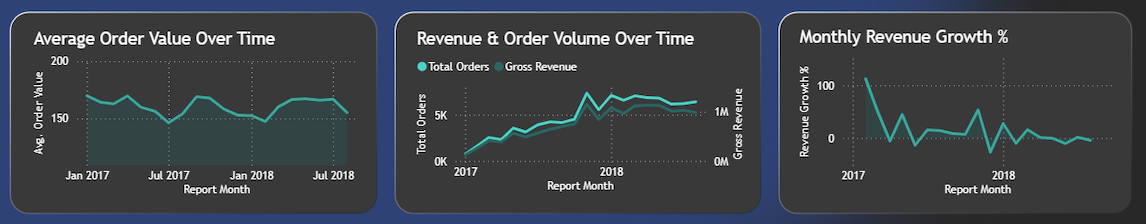
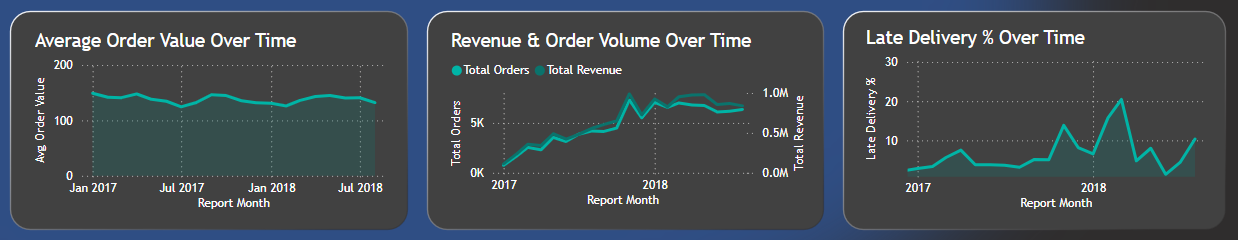
update screenshots and readme

diff --git a/README.md b/README.md
@@ -2,7 +2,7 @@
 
 ## 🎭 Business Scenario
 
-It's late 2018, and I'm working as a Data Analyst for Olist, a Brazilian e-commerce marketplace. The executive leadership team has requested a clear picture of how the business has performed over the previous two years, with a particular focus on revenue growth, regional performance and customer satisfaction.
+It's mid 2018, and I'm working as a Data Analyst for Olist, a Brazilian e-commerce marketplace. The executive leadership team has requested a clear picture of how the business has performed over the previous two years, with a particular focus on revenue growth, regional performance and customer satisfaction.
 
 To support this, I needed to answer several key business questions.
 
@@ -25,7 +25,7 @@ My goal was to design and build an end-to-end analytics pipeline that transforme
 
 ## 📸 Dashboard
 
-![Sales & Delivery Intelligence Dashboard](assets/dashboard-screenshot.png)
+![Sales & Delivery Intelligence Dashboard](assets/sales-delivery-intel-dashboard.png)
 
 ---
 
@@ -56,30 +56,33 @@ The goal was to keep the raw data untouched, clean and standardise it in staging
 
 ### Raw Layer (`raw/`)
 
-The raw layer contains the original CSV data loaded directly into the database with no transformations applied.
+The raw layer contains the original CSV data loaded directly into PostgreSQL with no transformations applied. All date columns are stored as VARCHAR, coordinates are stored as VARCHAR, and city name misspellings are preserved exactly as they appear in the source files.
 
-I mainly used this layer for profiling and data quality checks before building any transformations. I wanted to understand how reliable the data was, spot inconsistencies early, and avoid issues later when calculating KPIs.
+The nine raw tables are:
 
-During a full exploratory data quality assessment, I checked for:
+- `raw.customers` — customer ID, unique customer ID, zip code prefix, city, state
+- `raw.orders` — order ID, customer ID, status, and five date columns (all stored as VARCHAR)
+- `raw.order_items` — order ID, product ID, seller ID, price, freight value
+- `raw.order_payments` — order ID, payment sequential, payment type, instalments, payment value
+- `raw.order_reviews` — review ID, order ID, review score, comment title, comment message, two timestamps
+- `raw.products` — product ID, category name in Portuguese, physical dimensions and weight
+- `raw.product_category_name_translation` — Portuguese to English category name mapping
+- `raw.sellers` — seller ID, zip code prefix, city, state
+- `raw.geolocation` — zip code prefix, latitude, longitude, city, state (over 1M rows)
 
-- Duplicate primary keys
-- Missing values in important columns
-- Invalid dates and delivery records
-- Geography spelling inconsistencies
-- Pricing and payment outliers
-- One-to-many joins that could inflate metrics
+Before building any transformations, I profiled each table to assess data quality. The goal was to understand what problems existed in the raw data before writing any cleaning logic.
 
-Key profiling issues I found included:
+Key issues found during profiling:
 
-- Over 1M geolocation rows with lots of duplicate ZIP mappings
-- Seller city names entered in many different formats
-- Coordinates outside Brazil that needed filtering
-- Products missing category and metadata information
-- Orders marked as delivered but missing delivery dates
-- Orders using multiple payment records
-- Around 8% of deliveries arriving late
+- Over 1M geolocation rows with heavily duplicated zip code mappings (up to 50 rows per zip code)
+- Seller city names with widespread formatting inconsistencies, typos, double spaces and invalid entries including email addresses
+- Geolocation coordinates outside Brazil's geographic boundaries
+- Products missing category names and associated metadata
+- Orders marked as delivered but with no actual delivery date recorded
+- Orders with multiple payment records, creating a one-to-many join risk
+- Around 8% of orders arriving after the estimated delivery date
 
-These findings helped shape the cleaning logic I later built in the staging layer.
+These findings shaped the cleaning logic built in the staging layer.
 
 _**Example logic: Profiling checks**_
 
@@ -105,24 +108,20 @@ ORDER BY 1 ASC;
 
 ### Cleaning Layer (`staging/`)
 
-The staging layer contains cleaned and standardised views built to prepare the source data for reliable analysis.
+The staging layer contains eight cleaned and standardised views built directly on top of the raw tables. No data is removed from raw; all transformations happen within the view definitions.
 
-This is where I handled most of the transformation work needed to make the data reliable for analysis.
+Here is what each view does:
 
-Some of the cleaning and transformation steps included:
+- `stg_orders` — casts all five date columns from VARCHAR to TIMESTAMP; derives `is_late_delivery` (1 if the actual delivery date is after the estimated date) and `is_completed_order` (1 if order status is delivered)
+- `stg_customers` — lowercases and trims city names; uppercases and trims state codes
+- `stg_order_items` — rounds price and freight to two decimal places; adds `total_item_value` as price plus freight
+- `stg_order_payments` — standardises payment type labels (boleto becomes bank_transfer, not_defined becomes unknown)
+- `stg_order_reviews` — casts review timestamps from VARCHAR to TIMESTAMP; replaces NULL comment titles and messages with placeholder text
+- `stg_products` — joins the product category translation table to map Portuguese names to English; manually maps four edge cases not covered by the translation table; defaults NULL categories to unknown; renames misspelled source columns
+- `stg_sellers` — uses a CTE to lowercase, trim and collapse double spaces with regex, then strips state code suffixes before applying 20+ CASE conditions to normalise city name variations; flags invalid entries such as numeric strings, email addresses and very short values as unknown
+- `stg_geolocation` — deduplicates the 1M+ row table by grouping on zip code and averaging lat and lng coordinates; applies a bounding box filter to exclude any coordinates outside Brazil's geographic boundaries
 
-- Standardising city and state names
-- Removing invalid geographic records
-- Deduplicating geolocation data
-- Translating Portuguese product categories
-- Validating timestamps
-- Filtering anomalous future dates
-- Aggregating payment rows before joins
-- Creating delivery performance flags
-
-I also used this layer to fix structural issues I found during profiling, especially around geography inconsistencies and duplicated payment behaviour.
-
-_**Example logic: Adding the `is_late_delivery` flag**_
+_**Example logic: Deriving the `is_late_delivery` flag in `stg_orders`**_
 
 ```sql
 SELECT
@@ -140,18 +139,23 @@ FROM staging.stg_orders;
 
 ### Analytics Layer (`gold/`)
 
-The analytics/marts layer contains the final business-ready models used for reporting and dashboarding.
+The analytics layer contains the final business-ready models used for reporting and dashboarding.
 
-Here, I consolidated transactional, customer, payment, delivery, and review data into denormalised analytical views that could support KPI tracking and business analysis in Power BI.
+The gold layer was initially built as a set of SQL views. While this worked for early analysis, it caused two problems when connecting to Power BI: without surrogate keys, table relationships couldn't be properly defined, and the view-based join approach was producing duplicate rows. This was discovered when the original dashboard was found to be overstating total revenue by around 15% — showing R$15.4M instead of the correct R$13.2M. The layer was fully rebuilt as a proper star schema with materialised tables to fix this.
 
-Main analytical models:
+**Fact table**
 
-- `fact_sales`
-- `monthly_revenue`
-- `revenue_growth`
-- `delivery_performance`
-- `customer_segments`
-- `category_risk`
+- `fact_order_items` — one row per order line item. Contains foreign keys to all dimension tables plus the core metrics: price, freight value, total item value, and delivery flags.
+
+**Dimension tables**
+
+- `dim_customer` — one row per customer, with surrogate key
+- `dim_product` — one row per product, with surrogate key and English category name
+- `dim_seller` — one row per seller, with surrogate key and normalised city name
+- `dim_order` — one row per order, with surrogate key and all order-level dates and status flags
+- `dim_date` — date spine with year, month and quarter attributes for time intelligence in Power BI
+
+Each dimension has a surrogate key generated with `ROW_NUMBER()` so Power BI can define proper relationships between tables.
 
 These models support analysis across:
 
@@ -160,26 +164,18 @@ These models support analysis across:
 - Regional satisfaction and late delivery rates
 - Product category risk
 
-_**Example logic: Building the category risk view**_
+_**Example logic: Building dim_date**_
 
 ```sql
-WITH deduped_reviews AS (
-    SELECT
-        order_id,
-        MAX(review_score) AS review_score
-    FROM staging.stg_order_reviews
-    GROUP BY order_id
-)
+INSERT INTO gold.dim_date (date_id, full_date, year, month, month_name, quarter)
 SELECT
-    f.category_name_english,
-    COUNT(DISTINCT f.order_id) AS total_orders,
-    ROUND(CAST(SUM(f.is_late_delivery) AS NUMERIC) / COUNT(*) * 100, 1) AS late_delivery_pct,
-    SUM(f.is_late_delivery) AS late_orders,
-    ROUND(CAST(AVG(r.review_score) AS NUMERIC), 2) AS avg_review_score
-FROM gold.fact_sales f
-LEFT JOIN deduped_reviews r ON f.order_id = r.order_id
-GROUP BY 1
-ORDER BY late_orders DESC;
+    ROW_NUMBER() OVER (ORDER BY d::DATE)        AS date_id,
+    d::DATE                                      AS full_date,
+    DATE_PART('year', d)::INT                    AS year,
+    DATE_PART('month', d)::INT                   AS month,
+    TO_CHAR(d, 'Month')                          AS month_name,
+    DATE_PART('quarter', d)::INT                 AS quarter
+FROM GENERATE_SERIES('2016-01-01', '2018-12-31', INTERVAL '1 day') AS d;
 ```
 
 ---
@@ -188,32 +184,36 @@ ORDER BY late_orders DESC;
 
 ### Revenue & Growth
 
-- Total Revenue
-- Average Order Value (AOV)
-- Monthly Revenue Growth
+- Total Revenue (R$13.2M across delivered orders)
+- Average Order Value (AOV) — flat at ~R$130-160 throughout
+- Order Volume Growth — grew from ~100/month in late 2016 to 6,000+/month by mid-2018
+- Monthly Revenue Growth % — tracked over time to identify trends
 
 ### Customer Experience
 
-- Customer Review Score
-- Average Delivery Time
-- Late Delivery Rate
+- Average Review Score (4.08 overall)
+- Average Delivery Time (12.01 days)
+- Late Delivery Rate (7.91% overall)
+- On-Time vs Late Review Score comparison (4.21 vs 2.55)
 
 ### Commercial Performance
 
-- Regional Sales Performance
-- Product Category Performance
+- Regional Delivery & Satisfaction Performance
+- Product Category Risk Analysis (late delivery rate vs satisfaction score)
 
 ---
 
 ## 🔍 Key Findings
 
+> **Note:** Figures below reflect the corrected star schema data. The original view-based gold layer was overstating total revenue by ~15% (R$15.4M) due to row duplication from view joins. The star schema rebuild corrected this to R$13.2M.
+
 - **Revenue growth is volume-driven**
 
-Orders grew from ~100/month in late 2016 to 6,000+/month by late 2018. Average order value stayed flat at ~R$130-160 throughout. Olist is bringing in more customers but spend per customer isn't increasing.
+Orders grew from ~100/month in late 2016 to 6,000+/month by mid 2018. Total revenue across the period was R$13.2M across 96K orders. Average order value stayed flat at ~R$130-160 throughout. Olist is bringing in more customers but spend per customer isn't increasing.
 
 - **Late delivery is the biggest driver of low satisfaction**
 
-On-time orders average a review score of 4.21. Late orders average 2.55 - a 1.66 point drop on a 1-5 scale. Late orders also take 3x longer to arrive (30.9 days vs 10.4).
+On-time orders average a review score of 4.21. Late orders average 2.55 — a 1.66 point drop on a 1-5 scale. Late orders also take 3x longer to arrive (30.9 days vs 10.4).
 
 - **The Northeast is the highest-risk region**
 
@@ -227,7 +227,7 @@ Bed, Bath & Table has the most late deliveries by volume (920) and a 3.93 score.
 
 ## 📊 Data Visualisation
 
-I created a single page dashboard, split into two rows of charts, in Power BI to present my findings.
+I created a single page dashboard in Power BI to present my findings. A Year slicer in the top right filters all visuals at once, and clicking any chart cross-filters the rest of the page.
 
 Below is a walkthrough of each row:
 
@@ -235,7 +235,7 @@ Below is a walkthrough of each row:
 
 ![Top row screenshot](assets/row-1-screenshot.png)
 
-Six headline numbers across the top: total revenue, total orders, late delivery rate, total items sold, average review score and average delivery days. These give a quick snapshot of the business before looking at the detail below.
+Five headline numbers across the top: total revenue (R$13.2M), total orders (96K), late delivery rate, average review score and average delivery days. These give a quick snapshot of the business before looking at the detail below.
 
 **Middle row — Revenue and growth**
 
@@ -243,15 +243,19 @@ Six headline numbers across the top: total revenue, total orders, late delivery 
 
 - _Average Order Value Over Time_ — a flat line throughout the period, which confirms growth isn't coming from bigger baskets
 - _Revenue & Order Volume Over Time_ — revenue and order count plotted together, both climbing steadily from early 2017 to 2018, driven by volume
-- _Monthly Revenue Growth %_ — shows the month-on-month growth rate. Big swings early on when order numbers were still small
+- _Late Delivery % Over Time_ — shows how the late delivery rate trended month by month, useful for spotting whether the problem is getting better or worse over time
 
 **Bottom row — Delivery and satisfaction**
 
 ![Bottom row screenshot](assets/row-3-screenshot.png)
 
-- _On-Time vs Late: Review Score_ — the clearest chart on the page. Two bars: 4.21 for on-time deliveries, 2.55 for late deliveries. The gap makes the correlation between punctual deliveries and better review scores immediately obvious
-- _Review Score by Region_ — satisfaction broken down by Brazil's five regions, with the Northeast visibly below the rest
-- _Late Delivery vs Satisfaction by Category_ — a scatter plot where each dot is a product category, plotted by late delivery rate and average review score. Categories sitting bottom-right (high late rate, low score) are the ones that need attention most
+- _On-Time vs Late: Review Score_ — the clearest chart on the page. Two bars: 4.21 for on-time deliveries, 2.55 for late deliveries. The subtitle also shows the delivery time gap (30.9 days vs 10.4)
+- _Avg Review Score by Region_ — satisfaction broken down by Brazil's five regions, with the Northeast visibly below the rest
+- _Late Delivery vs Satisfaction by Category_ — a scatter plot where each dot is a product category, plotted by late delivery rate and average review score. Categories sitting bottom-right are the highest risk
+
+The Year slicer lets you compare 2017 and 2018 side by side. Here's an example with 2017 selected:
+
+![Filtered dashboard — 2017](assets/filtered-dashboard.png)
 
 ---
 
@@ -270,4 +274,5 @@ The Northeast has a 14.2% late rate — nearly double the Southeast. Alagoas (AL
 Office Furniture scores 3.52, the lowest of any major category, despite only an 8.9% late rate. The issue isn't delivery speed, it's likely damage in transit. Better packaging requirements for heavy and bulky items could improve scores here without changing logistics at all.
 
 **4. Look at ways to grow average order value**
+
 Revenue growth has been entirely volume-driven since 2016; average order value has stayed flat at ~R$130-160 throughout. Bundles, cross-sell recommendations or free shipping thresholds could help increase what customers spend per order.